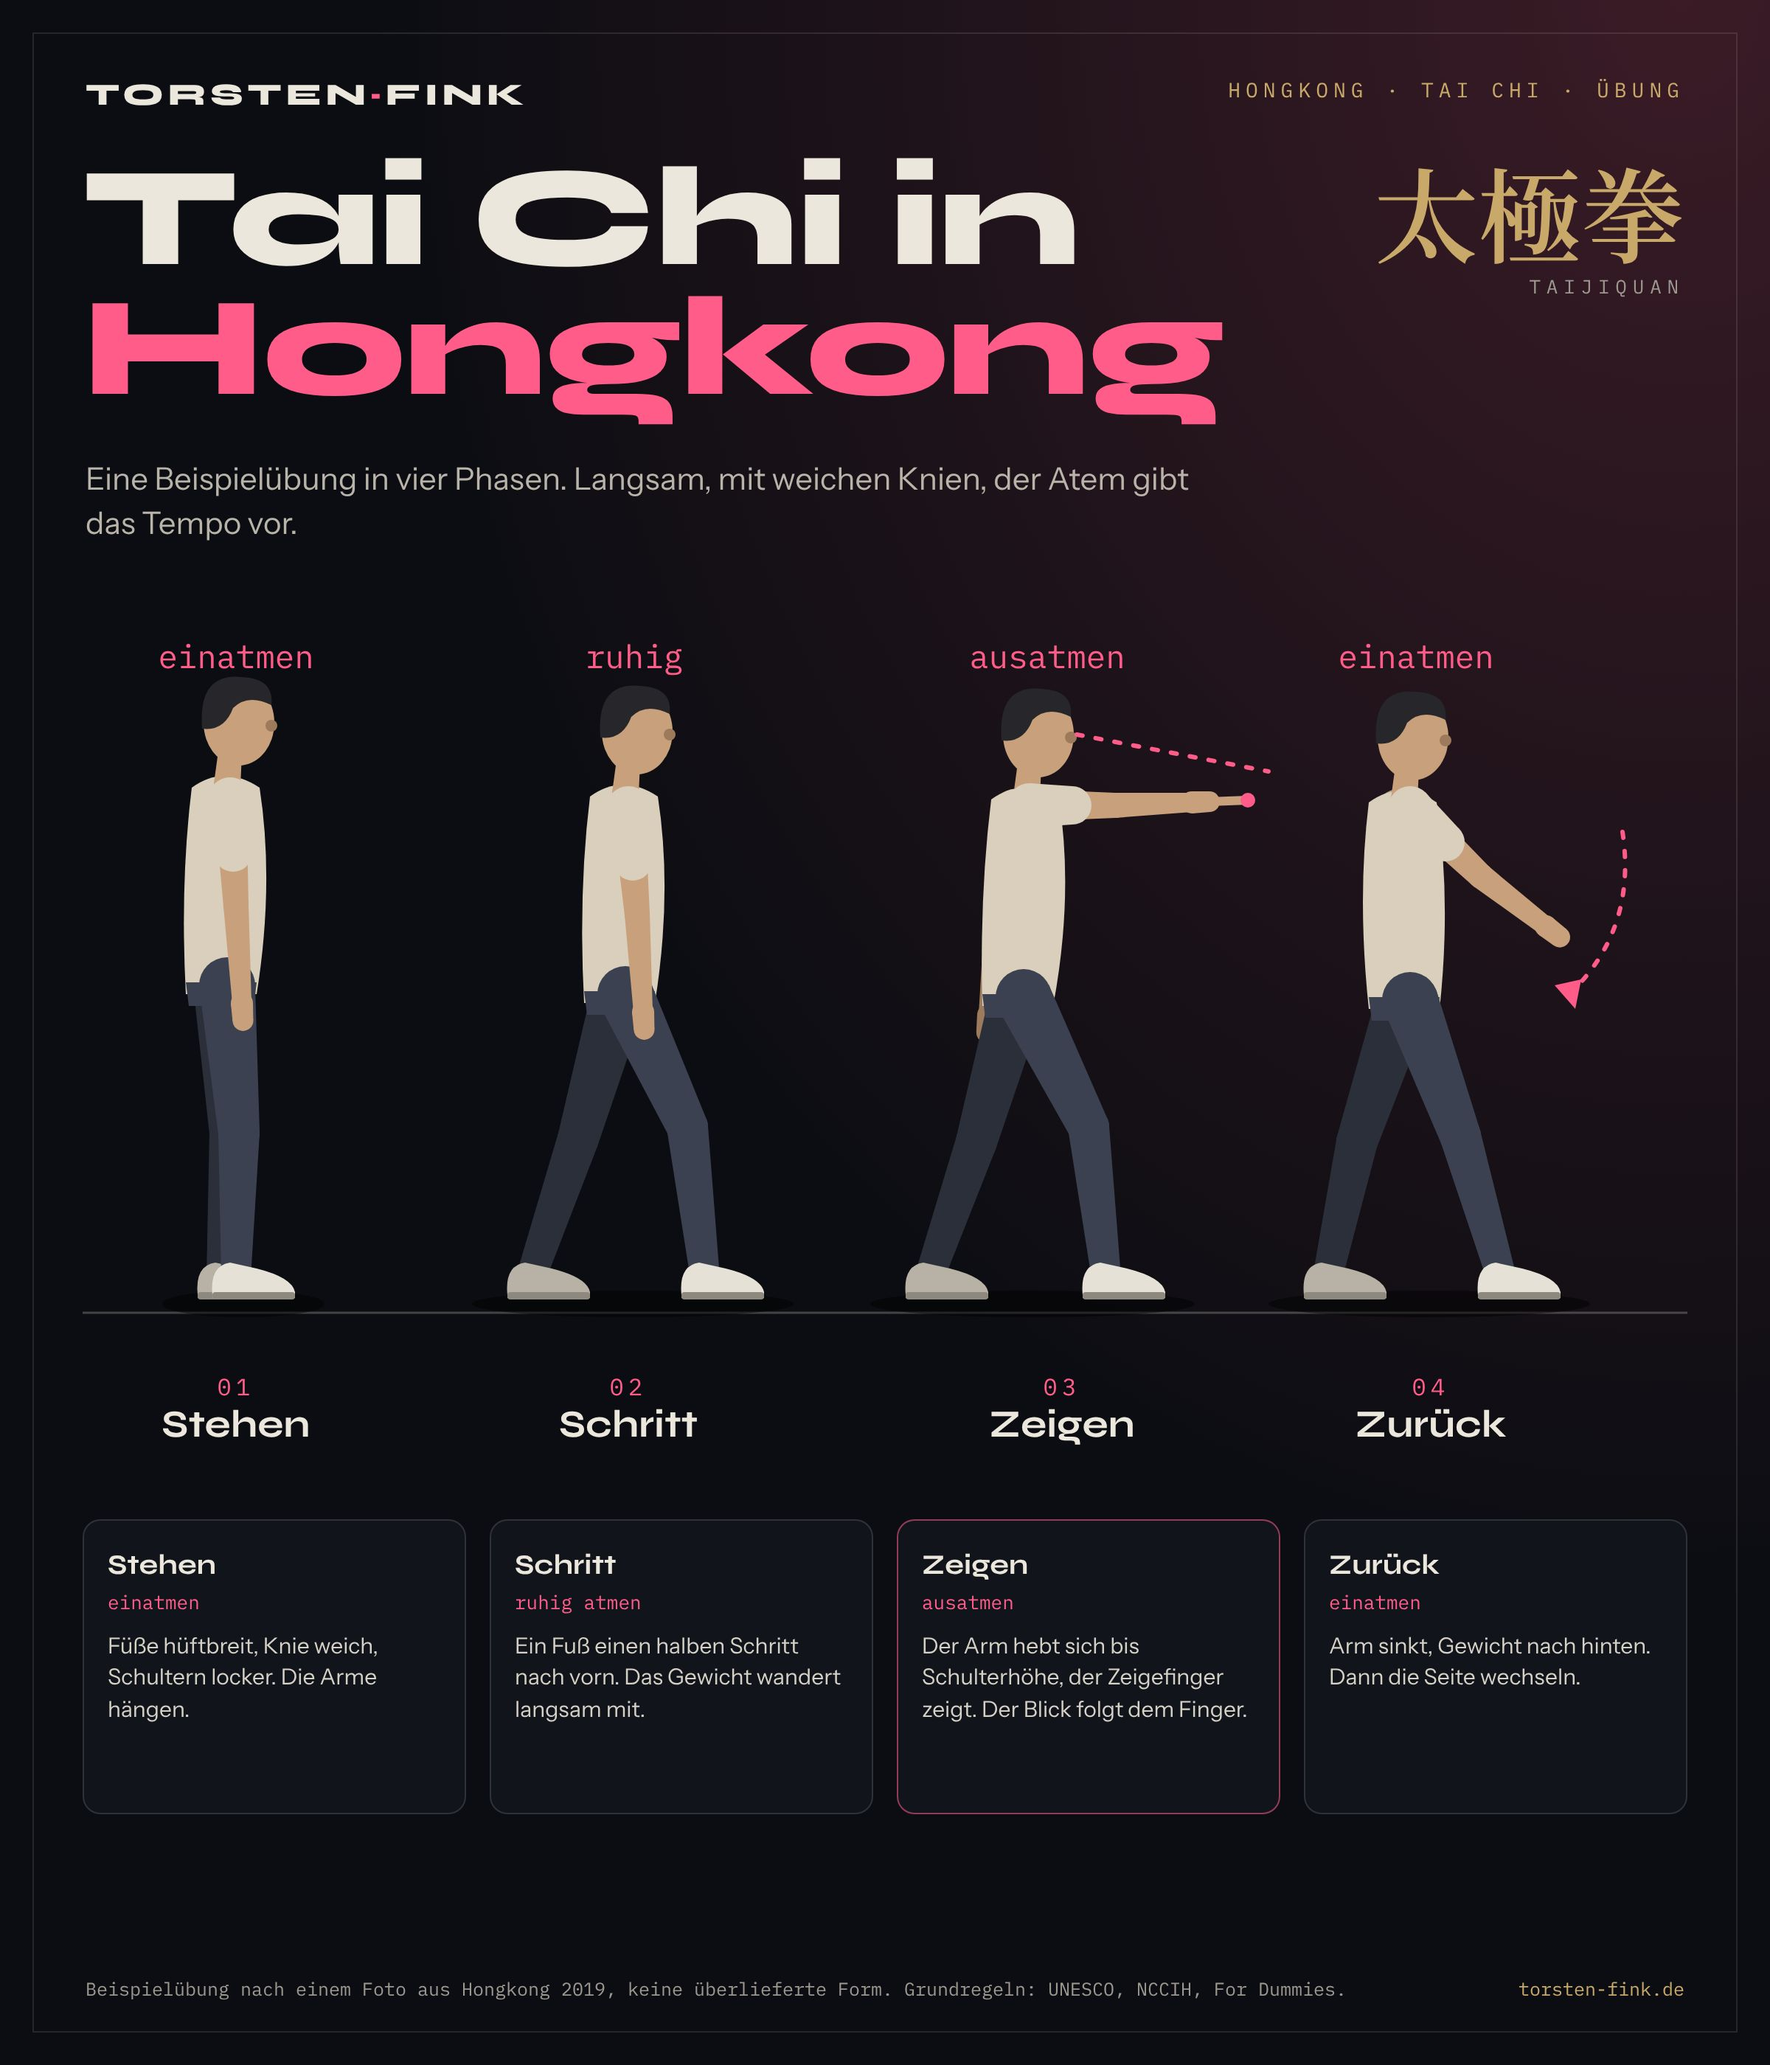
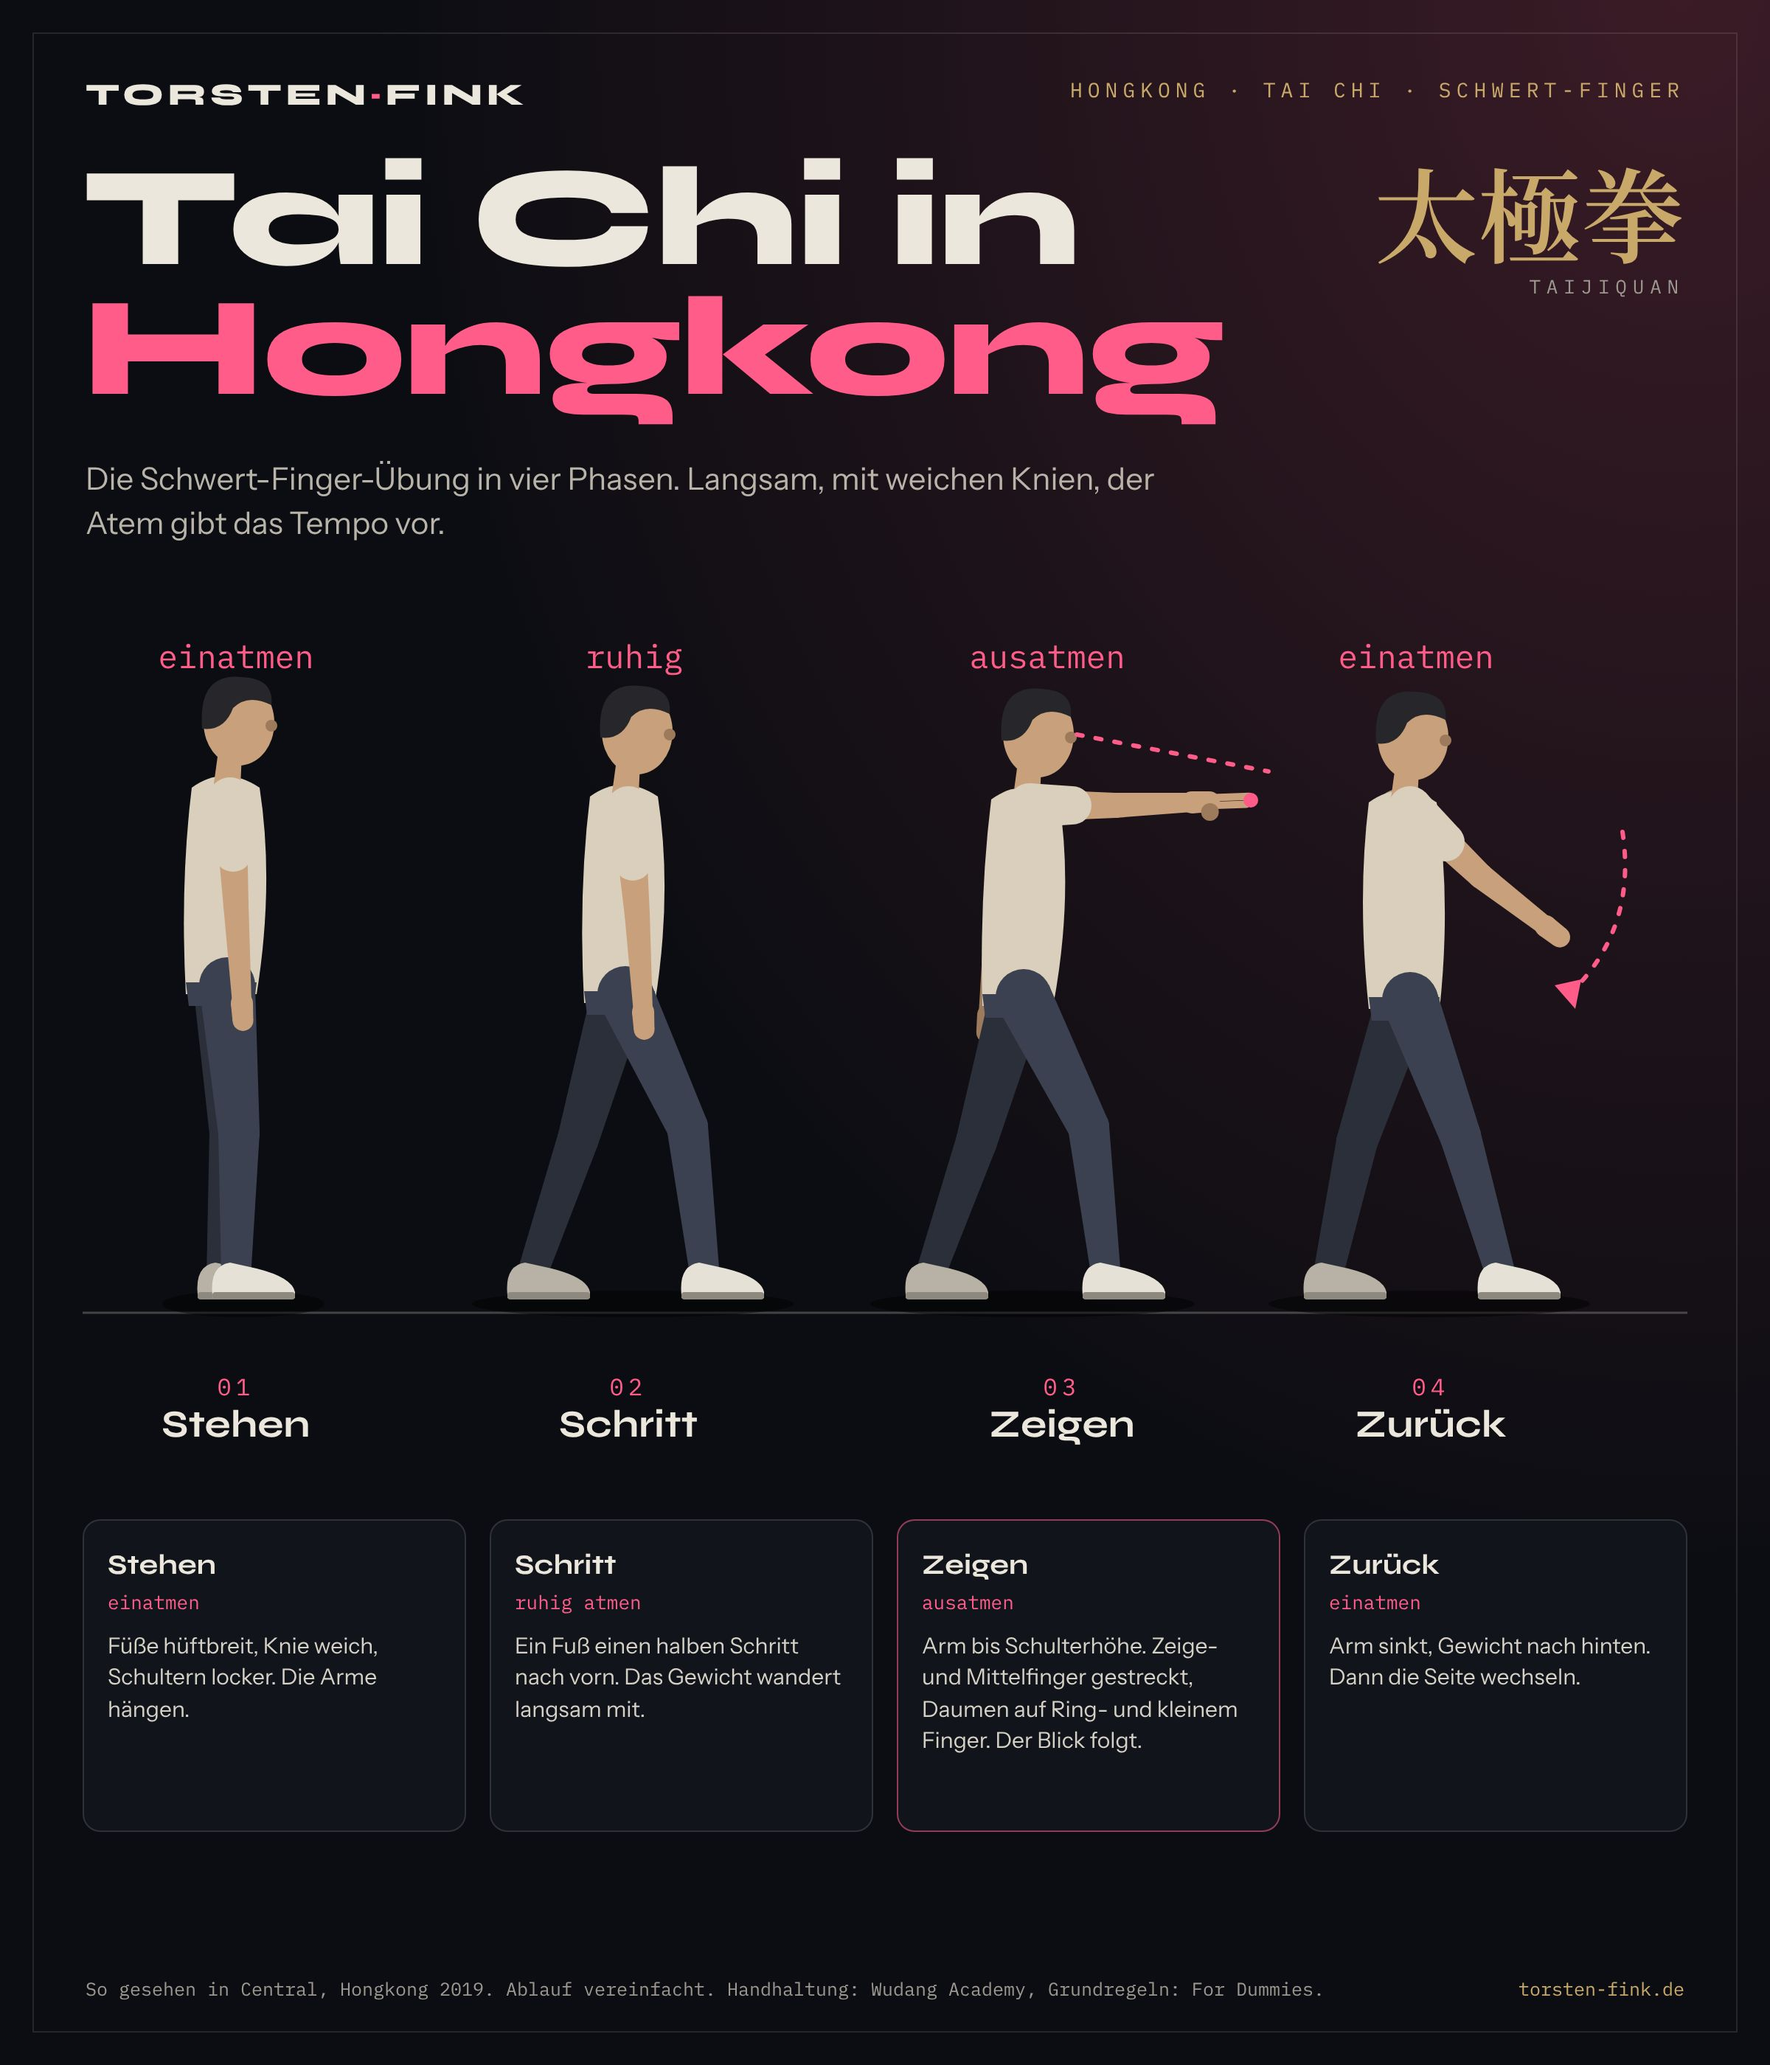
Tai Chi: Übung als Schwert-Finger beschrieben, Grafik angepasst, Pflichtsport-Satz entfernt
Claude-Session: https://claude.ai/code/session_01Fba3anoUoR8ZEjRTz6aG6g

diff --git a/guides/hongkong-tai-chi.html b/guides/hongkong-tai-chi.html
@@ -36,15 +36,15 @@
     {
       "@type":"Article",
       "headline":"Tai Chi in Hongkong: Zeitlupe zwischen Hochhäusern",
-      "description":"Was Tai Chi ist, wie alt es ist und was Studien zur Wirkung sagen, mit einer Beispielübung in vier Phasen, eigener Grafik und eigenen Fotos aus Hongkong.",
+      "description":"Was Tai Chi ist, wie alt es ist und was Studien zur Wirkung sagen, mit der Schwert-Finger-Übung in vier Phasen, eigener Grafik und eigenen Fotos aus Hongkong.",
       "inLanguage":"de",
       "datePublished":"2026-10-23T00:00:00+02:00",
       "dateModified":"2026-10-23T00:00:00+02:00",
-      "image":{"@type":"ImageObject","contentUrl":"https://torsten-fink.de/assets/images/guides/hongkong-tai-chi-grafik.jpg","url":"https://torsten-fink.de/assets/images/guides/hongkong-tai-chi-grafik.jpg","width":1200,"height":1400,"caption":"Tai-Chi-Beispielübung in vier Phasen: Stehen, Schritt, Zeigen, Zurück","creator":{"@type":"Person","@id":"https://torsten-fink.de/#person","name":"Torsten Fink"},"creditText":"Torsten Fink","copyrightNotice":"© Torsten Fink","license":"https://torsten-fink.de/impressum.html#urheberrecht","acquireLicensePage":"https://torsten-fink.de/impressum.html#urheberrecht"},
+      "image":{"@type":"ImageObject","contentUrl":"https://torsten-fink.de/assets/images/guides/hongkong-tai-chi-grafik.jpg","url":"https://torsten-fink.de/assets/images/guides/hongkong-tai-chi-grafik.jpg","width":1200,"height":1400,"caption":"Tai-Chi-Übung mit Schwert-Finger in vier Phasen: Stehen, Schritt, Zeigen, Zurück","creator":{"@type":"Person","@id":"https://torsten-fink.de/#person","name":"Torsten Fink"},"creditText":"Torsten Fink","copyrightNotice":"© Torsten Fink","license":"https://torsten-fink.de/impressum.html#urheberrecht","acquireLicensePage":"https://torsten-fink.de/impressum.html#urheberrecht"},
       "author":{"@type":"Person","@id":"https://torsten-fink.de/#person","name":"Torsten Fink","url":"https://torsten-fink.de/","sameAs":["https://www.instagram.com/torstenfinkbayern/","https://x.com/finktorsten","https://www.linkedin.com/in/torsten-fink-20220860"]},
       "mainEntityOfPage":"https://torsten-fink.de/guides/hongkong-tai-chi.html",
       "about":[{"@type":"Thing","name":"Taijiquan"},{"@type":"City","name":"Hongkong"}],
-      "keywords":"Hongkong, Tai Chi, Taijiquan, Übung, Anleitung, Gleichgewicht, Reise-Wissen"
+      "keywords":"Hongkong, Tai Chi, Taijiquan, Schwert-Finger, Jian Zhi, Übung, Anleitung, Gleichgewicht, Reise-Wissen"
     },
     {
       "@type":"BreadcrumbList",
@@ -116,14 +116,14 @@
 <article>
   <p>Hongkong riecht. Das meine ich freundlich. Morgens in den Parks und den kleinen Grünanlagen mischt sich der Duft der Stadt mit dem Duft der Bäume, und so habe ich das selten irgendwo gerochen. Vielleicht kein Zufall bei einer Stadt, deren Name übersetzt „duftender Hafen“ heißt. Gemeint war damit wohl das Räucherholz, mit dem hier früher gehandelt wurde. Ganz sicher ist das nicht.</p>
 
-  <p>Und überall standen sie. Allein, zu zweit, manchmal mehr. Die Arme in Zeitlupe, das Gewicht wandert von einem Fuß auf den anderen. Vollkommen ausgeglichen. Nach Pflichtsport sah das nicht aus.</p>
+  <p>Und überall standen sie. Allein, zu zweit, manchmal mehr. Die Arme in Zeitlupe, das Gewicht wandert von einem Fuß auf den anderen. Vollkommen ausgeglichen.</p>
 
-  <p>Zwei Frauen in Sichtweite des Bank of China Tower haben mich dann endgültig neugierig gemacht. Die eine schaute konzentriert über ihren Zeigefinger. Die andere lachte. Sie hatte mich mit der Kamera längst entdeckt. Beide zeigten auf denselben Punkt irgendwo zwischen den Hochhäusern. Ich wollte wissen, was die beiden da machen. Also habe ich nachgelesen und es probiert. Ergebnis vorweg: Es entspannt.</p>
+  <p>Zwei Frauen in Sichtweite des Bank of China Tower haben mich dann endgültig neugierig gemacht. Die eine schaute konzentriert über ihre ausgestreckten Finger. Die andere lachte. Sie hatte mich mit der Kamera längst entdeckt. Beide zeigten auf denselben Punkt irgendwo zwischen den Hochhäusern. Ich wollte wissen, was die beiden da machen. Also habe ich nachgelesen und es probiert. Ergebnis vorweg: Es entspannt.</p>
 
   <figure>
     <picture>
       <source type="image/webp" srcset="../assets/images/guides/hongkong-tai-chi-foto.webp">
-      <img src="../assets/images/guides/hongkong-tai-chi-foto.jpg" width="1200" height="1600" alt="Zwei Frauen in Sportkleidung unter einem Vordach mit Granitsäulen in Central, Hongkong. Beide strecken einen Arm aus und zeigen mit dem Zeigefinger in dieselbe Richtung. Im Hintergrund Hecke, Straße und ein Schild des Bank of China Tower." loading="lazy">
+      <img src="../assets/images/guides/hongkong-tai-chi-foto.jpg" width="1200" height="1600" alt="Zwei Frauen in Sportkleidung unter einem Vordach mit Granitsäulen in Central, Hongkong. Beide strecken einen Arm aus und zeigen mit gestreckten Fingern in dieselbe Richtung. Im Hintergrund Hecke, Straße und ein Schild des Bank of China Tower." loading="lazy">
     </picture>
     <figcaption>Im Bild: Tai Chi in Central, Hongkong 2019</figcaption>
   </figure>
@@ -138,7 +138,7 @@
     </picture>
     <figcaption>Im Bild: Tai Chi vor dem Aberdeen Tennis and Squash Centre, Hongkong 2015</figcaption>
   </figure>
-  <p>Ein Stil, eine Bewegung, das gibt es nicht. Der Mann in Aberdeen streckt die flache Hand aus, die beiden Frauen in Central zeigten mit dem Finger.</p>
+  <p>Ein Stil, eine Bewegung, das gibt es nicht. Der Mann in Aberdeen streckt die flache Hand aus, die beiden Frauen in Central zeigten mit dem Schwert-Finger.</p>
   <p>Wie ernst Hongkong das nimmt, zeigt eine Zahl. Am 30. September 2007 machten 20.236 Menschen gemeinsam Tai Chi auf dem Gelände des alten Flughafens Kai Tak. Hongkong-Rekord, meldete die Regierung.</p>
 
   <h2>Was bringt es?</h2>
@@ -146,25 +146,24 @@
   <p>Und ich? Es entspannt. Das ist mein Eindruck, mehr nicht.</p>
   <div class="memo"><span class="lbl">Meine Erinnerung</span><p>Morgens zwischen den Hochhäusern, überall Leute in Zeitlupe. Es war sehr schön anzusehen.</p></div>
 
-  <h2>Die Zeigefinger-Übung</h2>
-  <p>Was genau die beiden Frauen gemacht haben, kann ich nicht sagen. Aus einem Standbild lässt sich keine Form bestimmen. Die Übung unten habe ich nach dem Foto zusammengestellt, dazu die Grundregeln, die in Anleitungen immer wieder auftauchen: Knie nie durchgedrückt, Schultern locker, langsam in den Bauch atmen. Beim Strecken ausatmen, beim Zurücknehmen einatmen. Eine überlieferte Form ist das nicht.</p>
+  <h2>Die Schwert-Finger-Übung</h2>
+  <p>Die beiden Frauen in Central haben mit dem Schwert-Finger geübt, auf Chinesisch 剑指, jiàn zhǐ. Zeige- und Mittelfinger sind gestreckt und liegen eng zusammen, der Daumen liegt auf Ring- und kleinem Finger. So habe ich es vor Ort gesehen. Den Ablauf unten habe ich vereinfacht, dazu kommen die Grundregeln, die in Anleitungen immer wieder auftauchen: Knie nie durchgedrückt, Schultern locker, langsam in den Bauch atmen. Beim Strecken ausatmen, beim Zurücknehmen einatmen.</p>
 
   <figure>
     <picture>
       <source type="image/webp" srcset="../assets/images/guides/hongkong-tai-chi-grafik.webp 1200w, ../assets/images/guides/hongkong-tai-chi-grafik-2x.webp 2400w" sizes="(max-width: 760px) 100vw, 680px">
-      <img src="../assets/images/guides/hongkong-tai-chi-grafik.jpg" srcset="../assets/images/guides/hongkong-tai-chi-grafik.jpg 1200w, ../assets/images/guides/hongkong-tai-chi-grafik-2x.jpg 2400w" sizes="(max-width: 760px) 100vw, 680px" width="1200" height="1400" alt="Grafik: vier gezeichnete Figuren in Seitenansicht. 01 Stehen mit hängenden Armen, 02 ein halber Schritt nach vorn, 03 ein Arm auf Schulterhöhe nach vorn, der Zeigefinger zeigt, der Blick folgt, 04 der Arm sinkt, das Gewicht geht zurück. Darunter je eine Karte mit Atem und Hinweis." loading="lazy">
+      <img src="../assets/images/guides/hongkong-tai-chi-grafik.jpg" srcset="../assets/images/guides/hongkong-tai-chi-grafik.jpg 1200w, ../assets/images/guides/hongkong-tai-chi-grafik-2x.jpg 2400w" sizes="(max-width: 760px) 100vw, 680px" width="1200" height="1400" alt="Grafik: vier gezeichnete Figuren in Seitenansicht. 01 Stehen mit hängenden Armen, 02 ein halber Schritt nach vorn, 03 ein Arm auf Schulterhöhe nach vorn, Zeige- und Mittelfinger gestreckt, der Blick folgt, 04 der Arm sinkt, das Gewicht geht zurück. Darunter je eine Karte mit Atem und Hinweis." loading="lazy">
     </picture>
-    <figcaption>Beispielübung in vier Phasen, gezeichnet nach dem Foto aus Central</figcaption>
+    <figcaption>Die Schwert-Finger-Übung in vier Phasen, gezeichnet nach dem Foto aus Central</figcaption>
   </figure>
 
   <ol class="steps">
     <li><b>Stehen<span class="atem">einatmen</span></b>Füße etwa hüftbreit, die Knie leicht gebeugt. Schultern locker, die Arme hängen. In den Bauch atmen.</li>
     <li><b>Schritt<span class="atem">ruhig atmen</span></b>Ein Fuß geht einen halben Schritt nach vorn. Das Gewicht wandert langsam mit, bis das vordere Bein den größeren Teil trägt. Beide Fußsohlen bleiben am Boden.</li>
-    <li><b>Zeigen<span class="atem">ausatmen</span></b>Ein Arm hebt sich langsam nach vorn bis auf Schulterhöhe. Der Zeigefinger zeigt, die anderen Finger sind locker eingerollt. Der Blick geht über den Finger hinweg auf einen festen Punkt. Der andere Arm hängt.</li>
+    <li><b>Zeigen<span class="atem">ausatmen</span></b>Ein Arm hebt sich langsam nach vorn bis auf Schulterhöhe. Die Hand formt den Schwert-Finger: Zeige- und Mittelfinger gestreckt und zusammen, Ring- und kleiner Finger eingerollt, der Daumen liegt darauf. Der Blick geht über die Fingerspitzen hinweg auf einen festen Punkt. Der andere Arm hängt.</li>
     <li><b>Zurück<span class="atem">einatmen</span></b>Der Arm sinkt, das Gewicht wandert zurück aufs hintere Bein. Fuß zurückstellen, Seite wechseln. Ein paar Runden, so langsam, wie es geht.</li>
   </ol>
-  <p class="note">Auf vielen Bildern sieht man den Schwert-Finger 剑指, jiàn zhǐ: Zeige- und Mittelfinger gestreckt, Ring- und kleiner Finger eingerollt, der Daumen darüber. Er gehört vor allem zur Schwertform. Die beiden auf dem Foto zeigen nur mit dem Zeigefinger.</p>
-  <p class="note">Wer Probleme mit Knien oder Rücken hat, fragt vorher die Ärztin oder den Arzt. Richtig lernt man Tai Chi bei jemandem, der es unterrichtet. Eine Website ersetzt das nicht, diese auch nicht.</p>
+    <p class="note">Wer Probleme mit Knien oder Rücken hat, fragt vorher die Ärztin oder den Arzt. Richtig lernt man Tai Chi bei jemandem, der es unterrichtet. Eine Website ersetzt das nicht, diese auch nicht.</p>
 
   <p class="note">Mehr Hongkong mit Geschichten statt Regeln: <a class="inline-link" href="../stories/hongkong.html">die Hongkong-Story</a>. Noch mehr Reise-Wissen aus Asien: <a class="inline-link" href="japan-verbeugung-ojigi.html">Verbeugen in Japan</a>.</p>
 

diff --git a/README.md b/README.md
@@ -31,7 +31,7 @@ Neun Reisegeschichten zwischen Kamakura und Bad Heilbrunn, dazu eine Golf-Story 
 |---|---|
 | [Tokio zu Fuß: 8 Bahnhöfe](https://torsten-fink.de/guides/tokio-bahnhoefe-zu-fuss.html) | Acht Tokioter Bahnhöfe mit Gehzeiten aus offiziellen Quellen, schematischer Karte (Bild im Ring: KI-Fotomontage, gekennzeichnet) und eigenen Fotos. Schema Article + BreadcrumbList. Läuft außerhalb der Pager-Reihenfolge. |
 | [Verbeugen in Japan](https://torsten-fink.de/guides/japan-verbeugung-ojigi.html) | Eshaku, Keirei, Saikeirei, Dogeza mit Winkeln, Anlässen und Beispielsätzen. Grafik selbst gesetzt, Figuren sind Fotos von Torsten (keine KI). |
-| [Tai Chi in Hongkong](https://torsten-fink.de/guides/hongkong-tai-chi.html) | Herkunft, belegte Wirkung und eine Beispielübung in vier Phasen. Grafik selbst gezeichnet (keine KI), Fotos von Torsten (Aberdeen 2015, Central 2019, mit Erlaubnis). |
+| [Tai Chi in Hongkong](https://torsten-fink.de/guides/hongkong-tai-chi.html) | Herkunft, belegte Wirkung und die Schwert-Finger-Übung in vier Phasen. Grafik selbst gezeichnet (keine KI), Fotos von Torsten (Aberdeen 2015, Central 2019, mit Erlaubnis). |
 
 ## Tools
 
